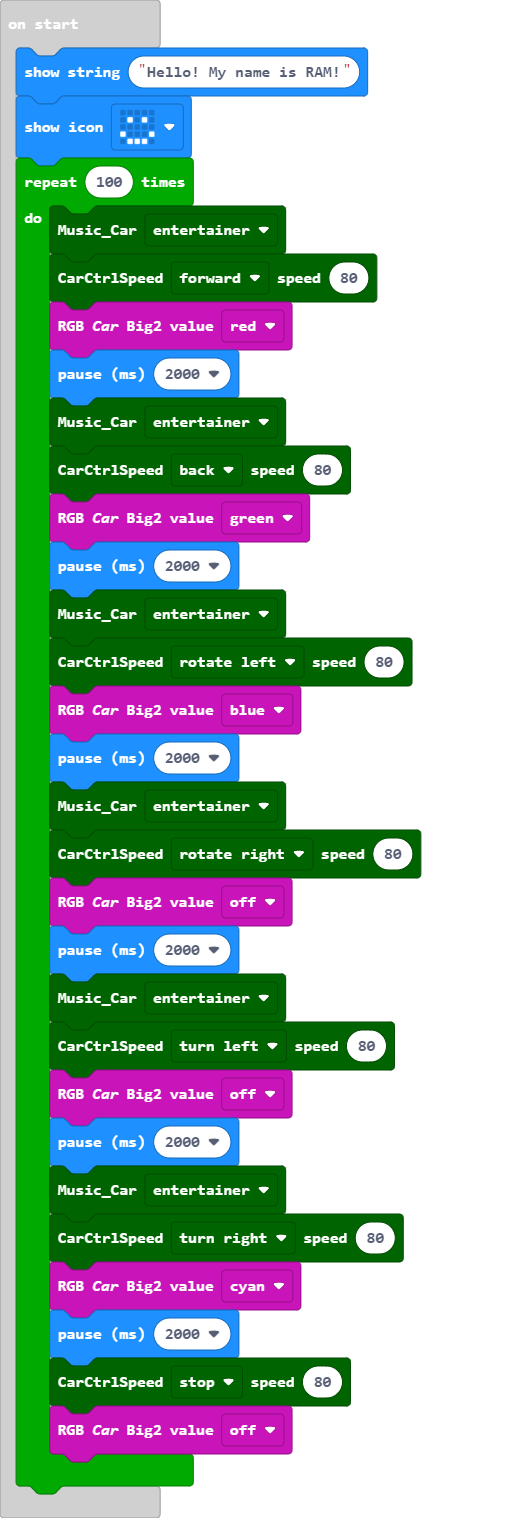
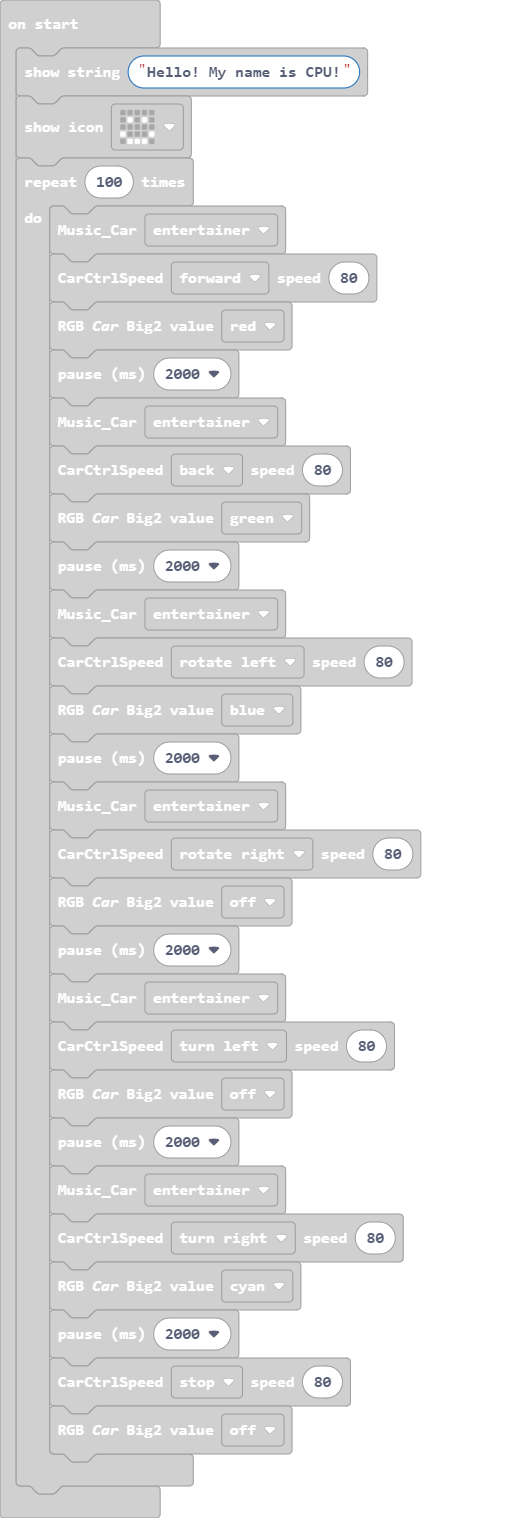
Changed his name from RAM to CPU

diff --git a/main.ts b/main.ts
@@ -1,4 +1,4 @@
-basic.showString("Hello! My name is RAM!")
+basic.showString("Hello! My name is CPU!")
 basic.showIcon(IconNames.Happy)
 for (let index = 0; index < 100; index++) {
     mbit_Robot.Music_Car(mbit_Robot.enMusic.entertainer)
